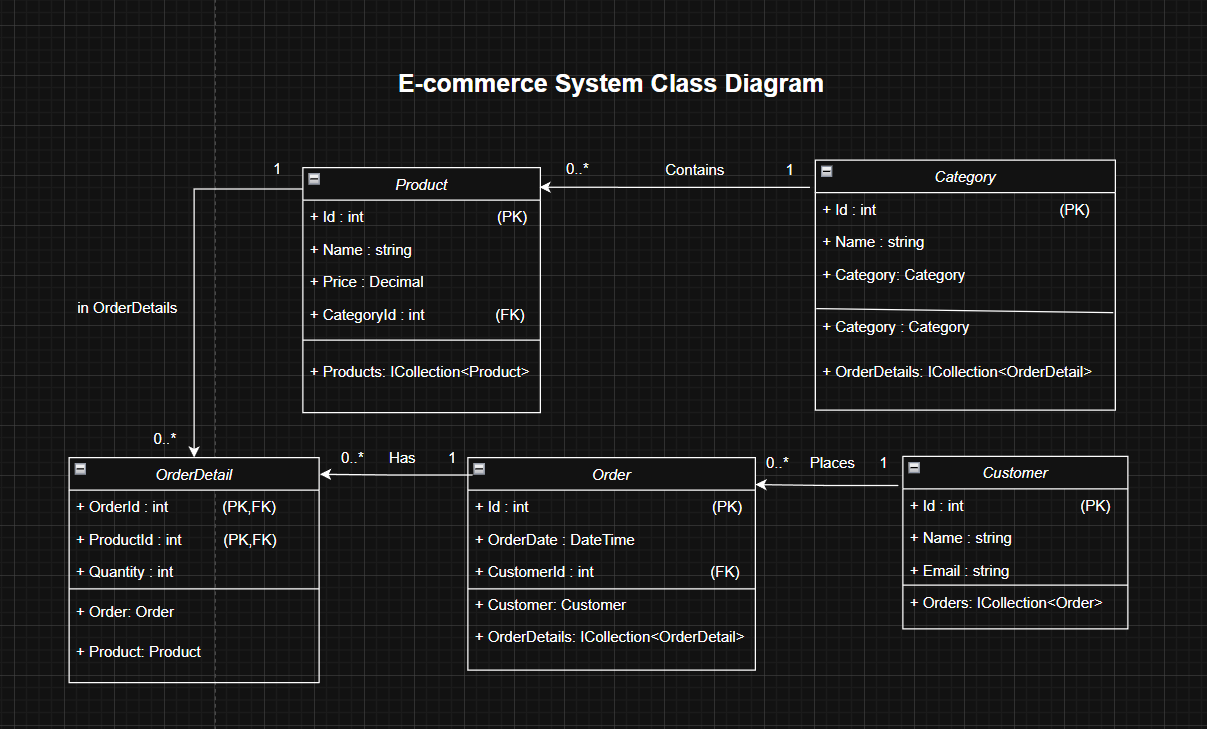
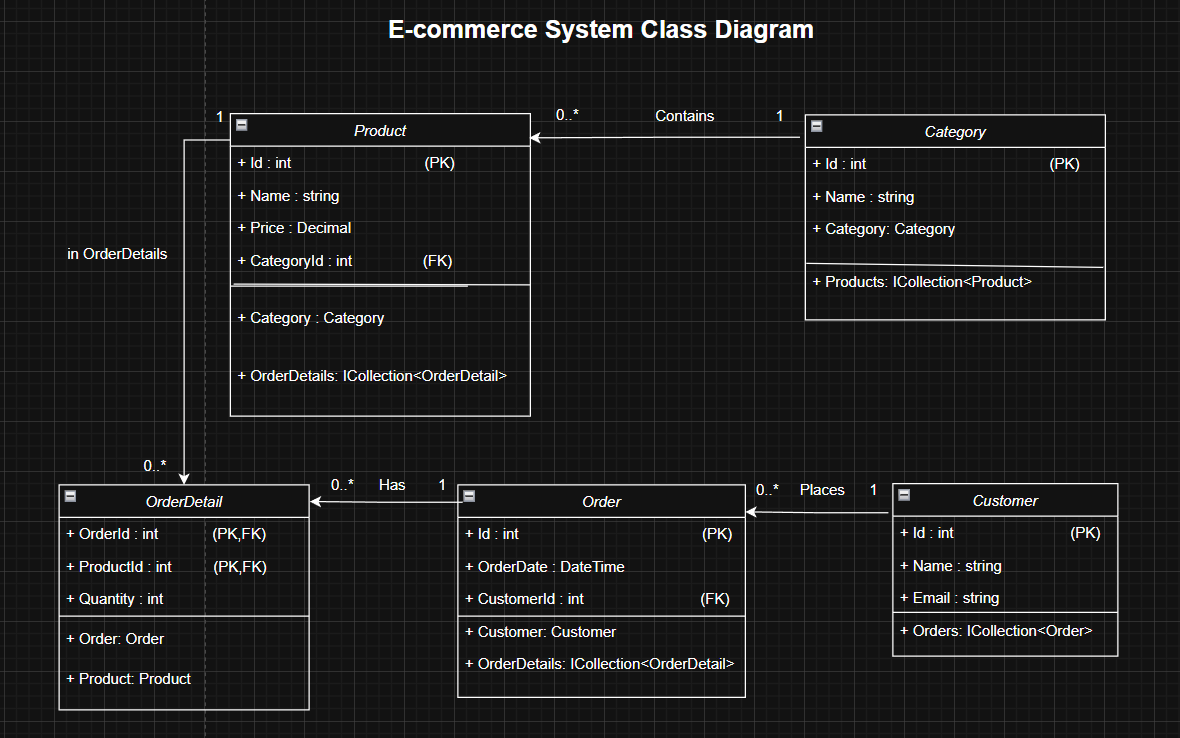
edit Class Diagram

diff --git a/ConsoleApp1/Entities/Category.cs b/ConsoleApp1/Entities/Category.cs
@@ -1,0 +1,14 @@
+using System;
+using System.Collections.Generic;
+using System.Text;
+
+namespace ConsoleApp1.Entities
+{
+    public class Category
+    {
+        public int Id { get; set; }
+        public string Name { get; set; }
+        //public int Id { get; set; }
+
+    }
+}
